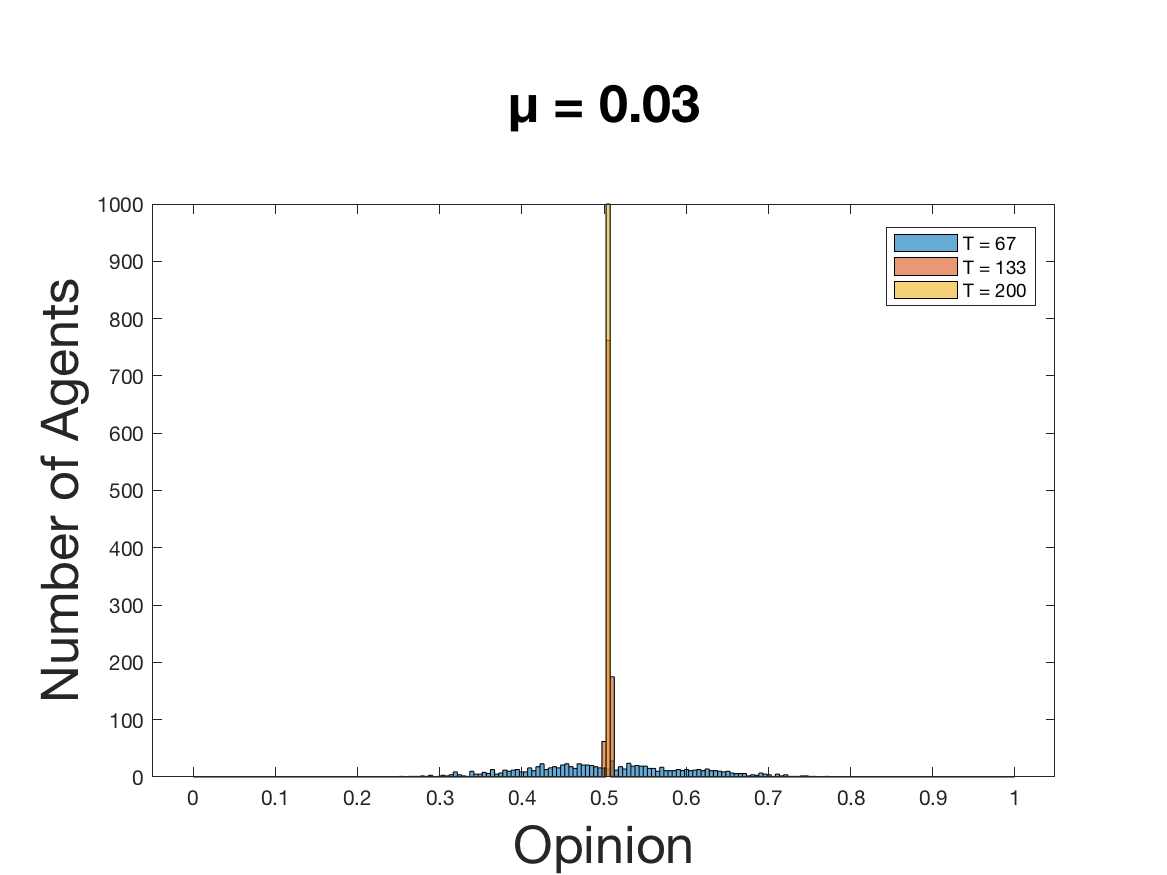
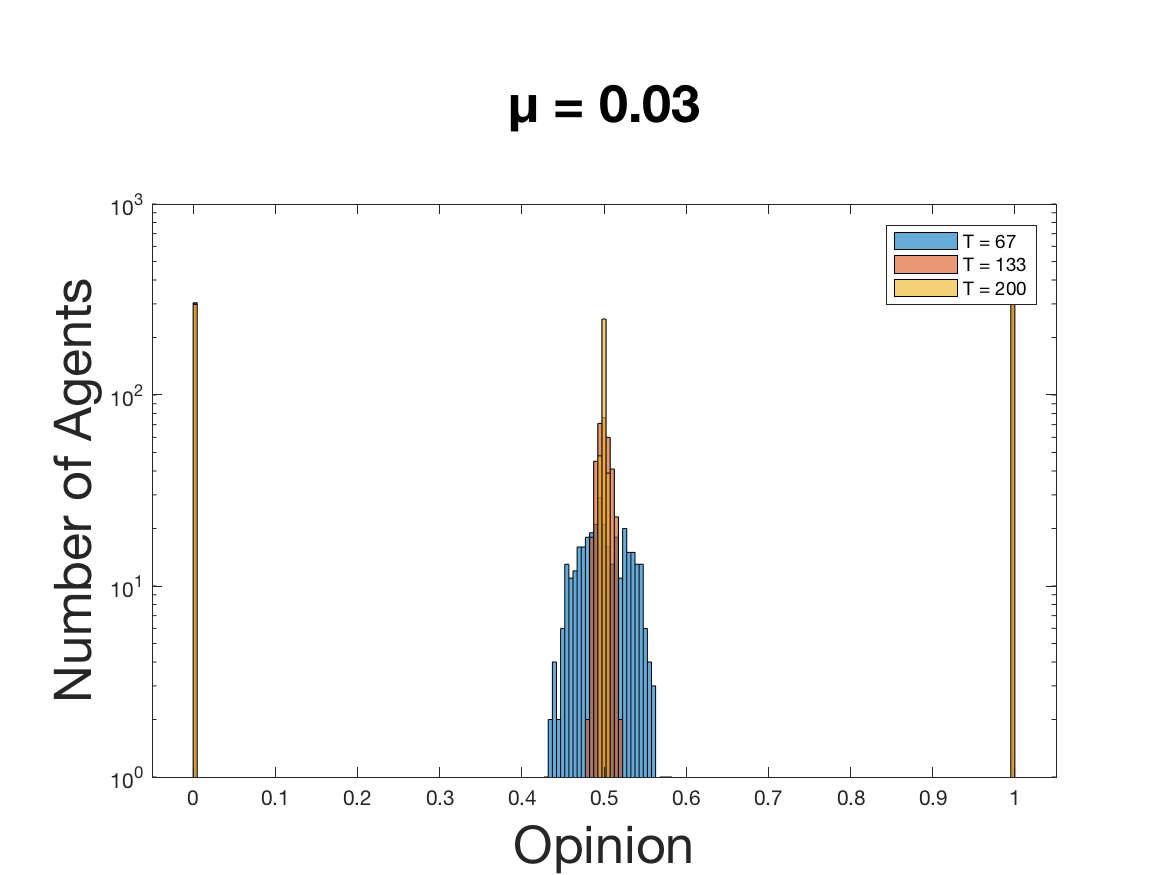
added a load of plots

diff --git a/code/main.m b/code/main.m
@@ -3,7 +3,7 @@
 %% author: The Opinionators (Elisa Wall, Alexander Stein, Niklas Tidbury)
 
 %% number of time steps
-T = 15;
+T = 30;
 
 %% number of iterations
 Tg = 50;
@@ -19,7 +19,7 @@ u = 0.32;
 % Mu defines the change of opinion when two agents speak with each other
 % mu has to be between 0 and 1 to ensure that all opinions are 
 % opinions are between 0 and 1.
-mu = 0.2;
+mu = 0.3;
 
 
 %% Properties of the extremists
@@ -27,8 +27,8 @@ mu = 0.2;
 n0 = 1;
 n1 = 1;
 % number of agents one extremist can reach
-p0 = 50;
-p1 = 50;
+p0 = 500;
+p1 = 500;
 % An extremist convinces an agent with probability kappa
 kappa0 = 0.2;
 kappa1 = 0.2;
@@ -94,9 +94,11 @@ gen_plot("hist", false, 3, run_simulation("without", op, Tg, T, N, u, mu, n0, p0
 %gen_plot("hist", true, 1, run_simulation("with", op, Tg, T, N, u, mu, n0, p0, kappa0, n1, p1, kappa1, infop0, infop1), "Percentages", "Time", "Percentage of Extreme", T, N, false);
 %}
 op = create(N);
+gen_plot("hist", false, 3, run_simulation("with", op, Tg, T, N, u, mu, n0, p0, kappa0, n1, p1, kappa1, infop0, infop1), "µ = 0.3", "Opinion", "Number of Agents", T, N, true);
 
 %gen_plot_interval("line", "% of opinion between 0.45 and 0.55", "µ", "Percentage", false, "without", "u", create(N), Tg, T, N, u, mu, n0, p0, kappa0, n1, p1, kappa1, infop0, infop1);
-gen_plot_interval("line", "% of opinion between 0.45 and 0.55, w/ E", "µ", "Percentage", true, "with", "mu", op, Tg, T, N, u, mu, n0, p0, kappa0, n1, p1, kappa1, infop0, infop1);
+%gen_plot_interval("line", "% of opinion between 0.45 and 0.55, w/ E", "µ", "Percentage", true, "with", "mu", op, Tg, T, N, u, mu, n0, p0, kappa0, n1, p1, kappa1, infop0, infop1);
+%gen_plot_interval("line", "% of extreme opinions", "p", "Percentage", true, "with", "p", op, Tg, T, N, u, mu, n0, p0, kappa0, n1, p1, kappa1, infop0, infop1);
 %gen_plot_interval("line", "% of opinion between 0.45 and 0.55", "µ", "Percentage", true, "without", "u", create(N), Tg, T, N, u, mu, n0, p0, kappa0, n1, p1, kappa1, infop0, infop1);
 %gen_plot_interval("line", "% of opinion between 0.45 and 0.55", "µ", "Percentage", true, "without", "u", create(N), Tg, T, N, u, mu, n0, p0, kappa0, n1, p1, kappa1, infop0, infop1);
 %gen_plot_interval("line", "% of opinion between 0.45 and 0.55", "µ", "Percentage", true, "without", "u", create(N), Tg, T, N, u, mu, n0, p0, kappa0, n1, p1, kappa1, infop0, infop1);
@@ -156,6 +158,7 @@ function [] = gen_plot(plot_type, slider_bool, number_of_plots, data, plot_name,
     title({' ', plot_name, ' '}, 'FontSize', 25);
     xlabel(x_axis, 'FontSize', 25);
     ylabel(y_axis, 'FontSize', 25);
+    set(gca,'yscale','log') 
     if save
        format shortg;
        c = clock;
@@ -206,8 +209,8 @@ function [] = gen_plot_interval(plot_type, plot_name, x_axis, y_axis, save, simt
         
     elseif param == "mu"
         if plot_type == "line"
-            perc_total = zeros(100,1);
-            for j = 1:100
+            perc_total = zeros(50,1);
+            for j = 1:50
                 plot(perc_total);
                 arr = run_simulation(simtype, op, Tg, T, N, u, j/100, n0, p0, kappa0, n1, p1, kappa1, infop0, infop1);
                 perc_total(j) = countPercentage(0.45, 0.55, arr(T,:), N);
@@ -222,11 +225,14 @@ function [] = gen_plot_interval(plot_type, plot_name, x_axis, y_axis, save, simt
     title({' ', plot_name, ' '}, 'FontSize', 25);
     xlabel(x_axis, 'FontSize', 25);
     ylabel(y_axis, 'FontSize', 25);
-    if param == "u" || param == "mu"
+    if param == "u"
         xticks([0 10 20 30 40 50 60 70 80 90 100]);
         xticklabels({'0','0.1','0.2','0.3','0.4','0.5','0.6', '0.7', '0.8', '0.9', '1'});
-        disp("Finished!");
+    elseif param == "mu"
+        xticks([0 10 20 30 40 50]);
+        xticklabels({'0','0.1','0.2','0.3','0.4','0.5'});
     end
+    disp("Finished!");
     if save
        format shortg;
        c = clock;
